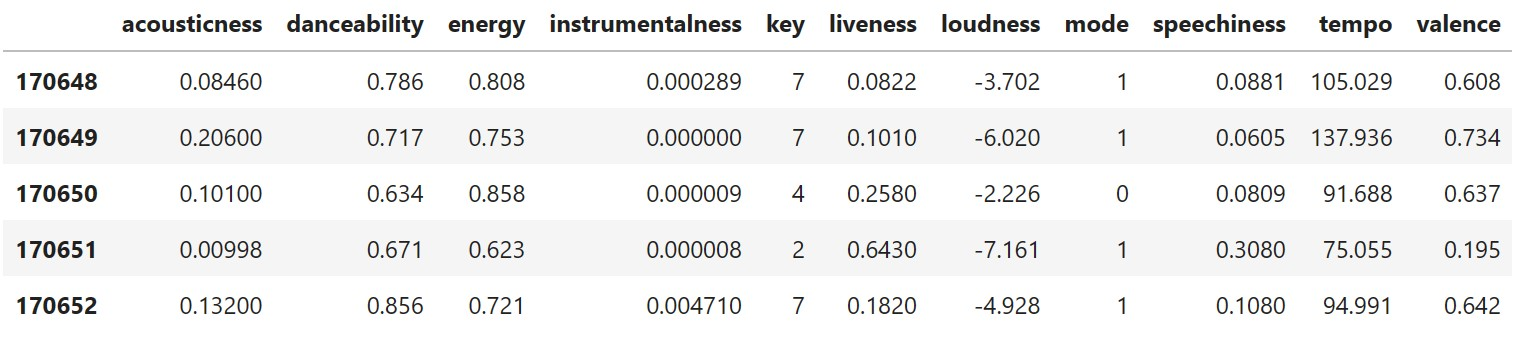
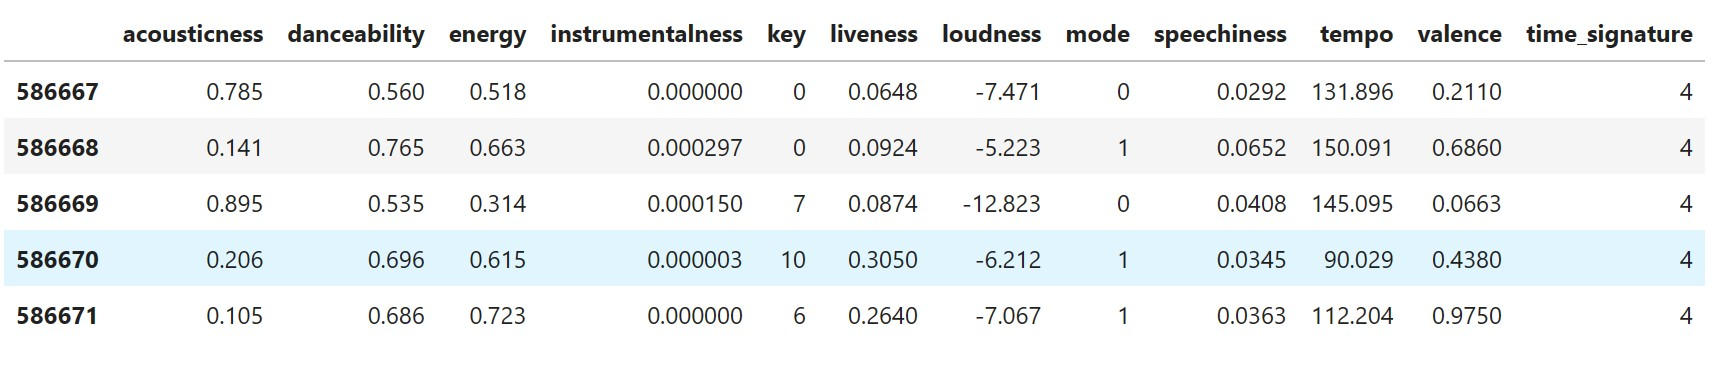
Update Final Report for Section 2 and Section 3 Intro

diff --git a/report/final_report.md b/report/final_report.md
@@ -16,21 +16,21 @@
 In the era of digital music consumption, personalized recommendation systems have become increasingly important to user experience. Leveraging the vast and diverse Spotify dataset, our project aims to develop a song-based recommendation system.
 
 ## 2. Data Understanding
-In 2020, Yamaç Eren Ay released an extensive Spotify dataset on Kaggle, encompassing over 160,000 songs from the years 1921 to 2020 [1]. Motivated by this valuable resource, our team decided to utilize this dataset, hereafter referred to as `data`, for developing our music recommendation system. Our initial step involved a comprehensive analysis of the song attributes in `data`, along with a detailed understanding of feature definitions obtained from the Spotify Web API.
+In 2020, Yamaç Eren Ay released an extensive Spotify dataset on Kaggle, encompassing over 160,000 songs from the years 1921 to 2020 [1]. In the following year, Yamaç Eren Ay released a larger track dataset that contains over 500,000 songs [1]. Motivated by this valuable resource, our team decided to utilize this new dataset, hereafter referred to as `data`, for developing our music recommendation system. Our initial step involved a comprehensive analysis of the song attributes in `data`, along with a detailed understanding of feature definitions obtained from the Spotify Web API.
 
-We used the `data.shape` method to confirm that data contains 174,389 tracks across 19 features. Additionally, by employing the `data.info()` method, we discovered that within `data`, 9 features are of float type, 6 are integers, and 4 are strings. To provide further clarity, we present a detailed feature definition table, which draws information from the dataset and the Spotify API documentation [2][3]:
+We used the `data.shape` method to confirm that data contains 586,672 tracks across 20 features. Additionally, by employing the `data.info()` method, we discovered that within `data`, 9 features are of float type, 6 are integers, and 5 are strings. To provide further clarity, we present a detailed feature definition table, which draws information from the dataset and the Spotify API documentation [2][3]:
 
 
 | Feature Name     | Type    | Description |
 | ------------     | ------- | ----------- |
 | name             | string  | The name of the track. |
 | artists          | string  | The artists(s) of the track. |
-| year             | integer | The year the track was released. |
 | release_date     | string  | The specific date when the track was released.
 | popularity       | integer | The popularity of the track. The value will be between 0 and 100, with 100 being the most popular. |
 | duration_ms      | integer | Length of the track in milliseconds. |
 | explicit         | integer | Indicates if the track has explicit lyrics (1 = yes, 0 = no or unknown). |
-| id               | string  | The Spotify ID for the track |
+| id               | string  | The Spotify ID for the track. |
+| id_artists       | string  | The Spotify ID for the artist. |
 | acousticness     | float   | A measure from 0.0 to 1.0 indicating how acoustic the track is. |
 | danceability     | float   | Ranges from 0.0 to 1.0, indicating how suitable a track is for dancing. |
 | energy           | float   | A measure from 0.0 to 1.0 indicating the intensity and activity level of a track. |
@@ -42,6 +42,7 @@ We used the `data.shape` method to confirm that data contains 174,389 tracks acr
 | speechiness      | float   | Measures the presence of spoken words, with higher values indicating more speech. |
 | tempo            | float   | The tempo of the track in beats per minute (BPM). |
 | valence          | float   | Measures the musical positiveness of a track, ranging from 0.0 to 1.0. |
+| time_signature   | integer   | Refers to the number of beats in a measure, or bar, of the music.
 
 Based on the feature definitions provided in the Spotify Documentation, we have categorized them into two distinct groups: `track_features` and `audio_features`. The `track_features` group encompasses all the attributes directly associated with the track itself, such as its name, artists, and Spotify ID. In our classification, we have identified 8 features that fall under `track_features`. The figure below presents the `track_features` for the last five tracks in our dataset.
 
@@ -52,7 +53,7 @@ Based on the feature definitions provided in the Spotify Documentation, we have 
 </figure>
 
 
-Meanwhile, the remaining 11 features are categorized as    `audio_features`. These pertain to the musical and acoustic properties of the tracks. The subsequent figure illustrates the `audio_features` for the last five tracks in our dataset.
+Meanwhile, the remaining 12 features are categorized as    `audio_features`. These pertain to the musical and acoustic properties of the tracks. The subsequent figure illustrates the `audio_features` for the last five tracks in our dataset.
 
 
 <figure>
@@ -67,16 +68,13 @@ From above two figures, we noticed that some features are not normalized, such a
 ```
 track_features = ['name', 'artists', 'year', 'release_date','popularity', 'duration_ms', 'explicit', 'id']
 audio_features_normalized = ['acousticness', 'danceability', 'energy', 'instrumentalness', 'liveness', 'speechiness', 'valence']
-audio_features_not_normalized = ['key', 'loudness', 'mode', 'tempo']
+audio_features_not_normalized = ['key', 'loudness', 'mode', 'tempo', 'time_signature']
 ```
 
-Finally, we have thoroughly verified that `data` is complete, with no missing values or duplicates present.
-
-In addition to this primary data source, three supplementary datasets are provided, categorized by genres, years, and artists. These will be referred to respectively as `genre_data`, `year_data`, and `artist_data` [1]. We applied the same procedures to these datasets and confirmed that they are also free from missing values and duplicates. However, it's important to note that `genre_data`, `year_data`, and `artist_data` do not include the Spotify ID for each track. This omission means these datasets are not directly applicable for building our music recommendation system models. Nevertheless, they offer valuable insights for a deeper understanding of the features. We will explore these insights further in the Exploratory Data Analysis section.
+Prior to moving to the data analysis phase, it is crucial to ascertain the completeness of the `data`. Upon examination, it is observed that 71 tracks in the dataset contain missing values in the `name` column. Given that these constitute a minor fraction of the overall dataset, we opt to employ the `data.dropna()` method. This approach effectively removes these incomplete entries, thereby ensuring the integrity and cleanliness of the data for subsequent analysis.
 
 ## 3. Exploratory Data Analysis
-
-TODO: A introduction to EDA is needed
+Exploratory Data Analysis (EDA) plays a pivotal role in comprehending the intricacies of dataset features, discerning underlying patterns and anomalies, and setting the stage for effective model development. In our analysis, we will delve into various dimensions, including temporal trends (time-based analysis), categorical distinctions (genres), and individual contributors (artists). This multifaceted approach ensures a comprehensive understanding of the dataset, paving the way for more informed and accurate modeling.
 
 ### 3.1 Music Over Time
 Music trends evolve over time. By analyzing data over different periods, we can track changes in popularity, the rise and fall of certain musical styles, or the emergence of new ones. For music streaming services like Spotify, understanding historical trends is vital for improving recommendation algorithms. Analyzing how user's preferences changes over time helps in creating more personalzied and dynamic playlists.
